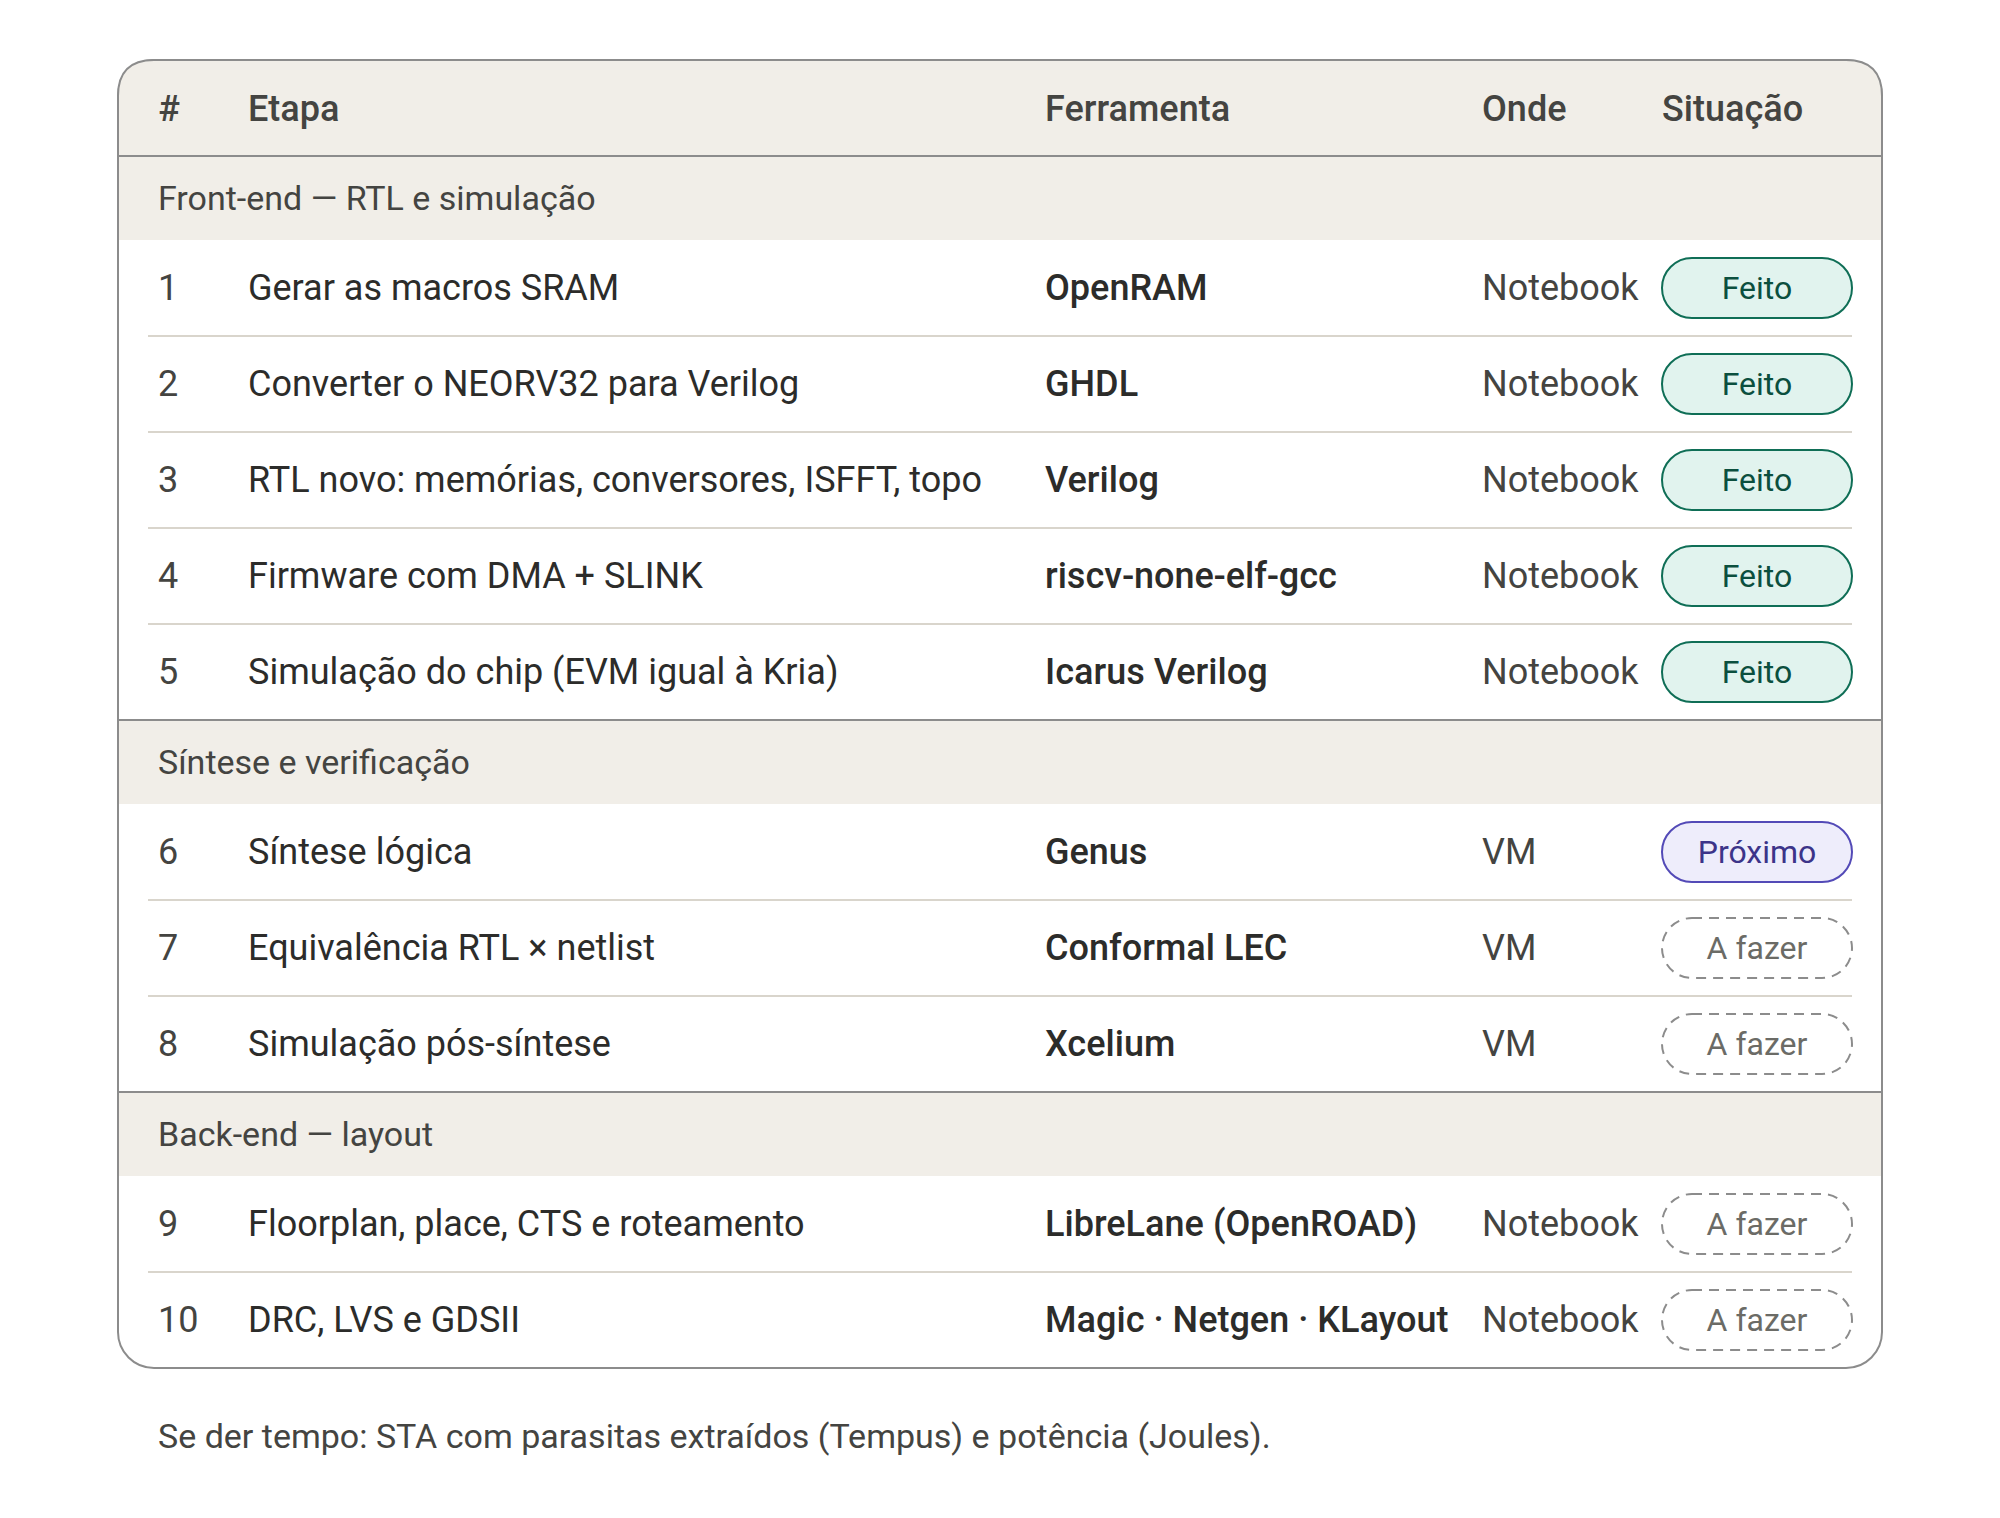
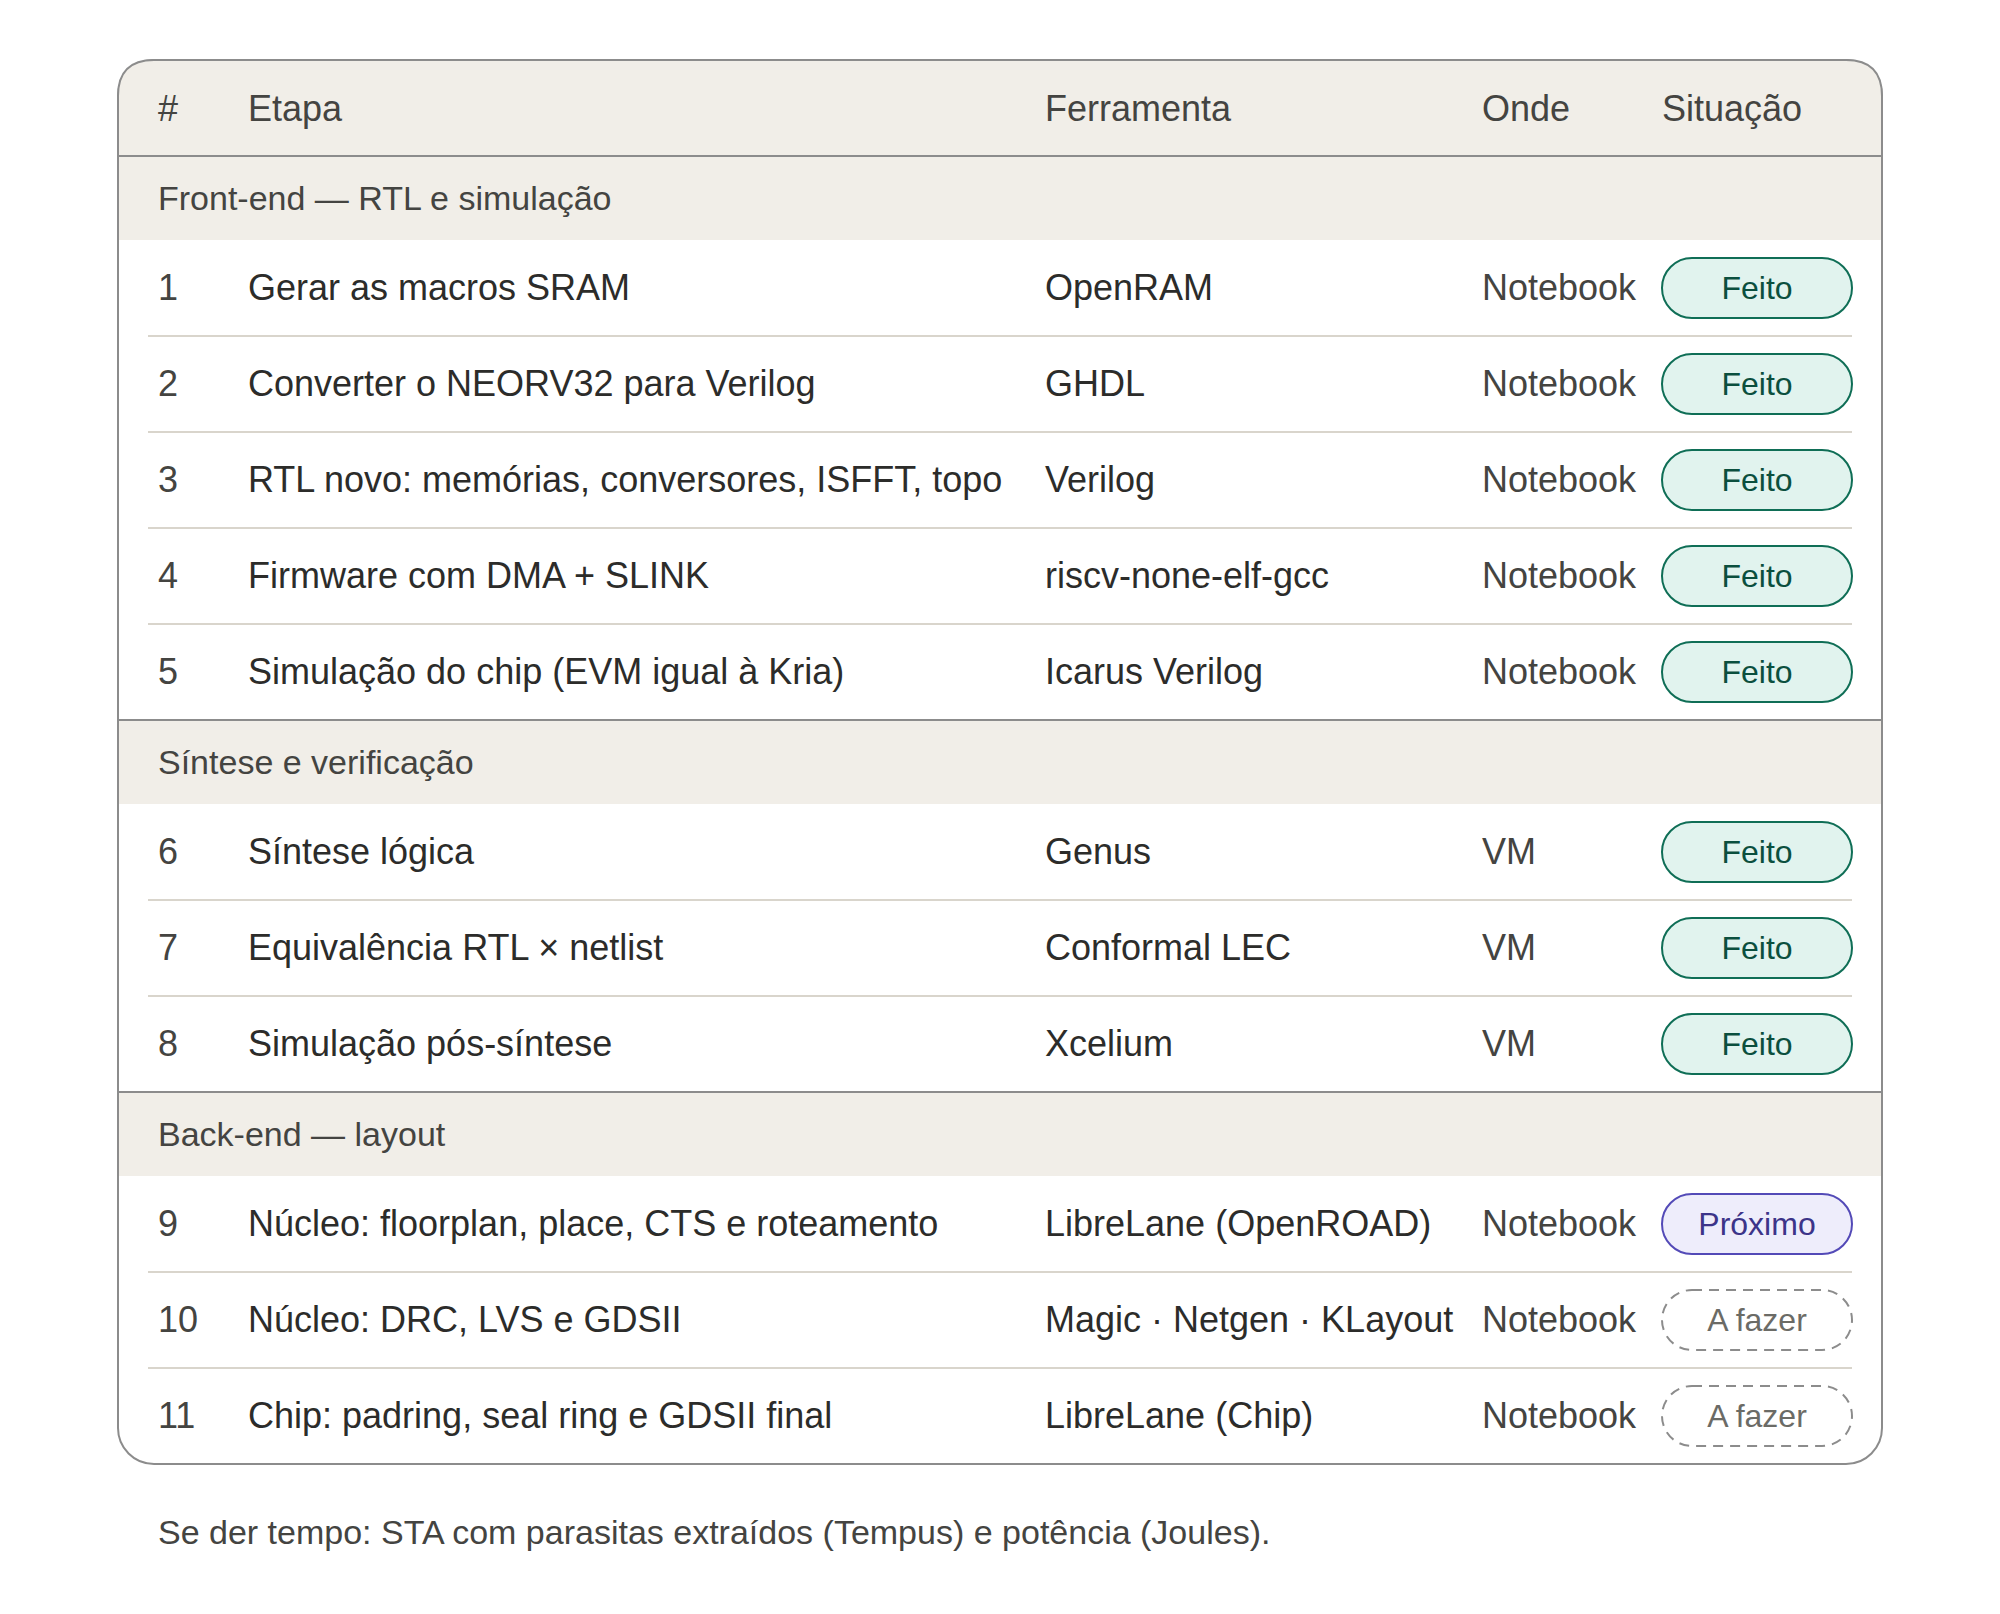
gdsii: roteiro até o GDSII + tabela para slide (L15)
Claude-Session: https://claude.ai/code/session_01KjHGGW1dwLoWYjJUyyCw1F

diff --git a/doc/gera_tabela_backend.py b/doc/gera_tabela_backend.py
@@ -1,0 +1,80 @@
+#!/usr/bin/env python3
+"""
+gera_tabela_backend.py -- etapas do back-end (netlist -> GDSII), com a
+imagem que cada etapa rende para o slide. Mesmo padrao da tabela_fluxo.
+Saida: doc/tabela_backend.svg  (PNG: python3 render_png.py tabela_backend.svg)
+Para atualizar a situacao, mude a ultima coluna de FASES e rode de novo.
+"""
+import os
+
+FASES = [
+    ("Preparação", [
+        ("0", "Netlist para o layout (.lib 33 bits, tie cells)", "Genus · LEC · Xcelium", "tabela antes × depois", "feito"),
+    ]),
+    ("Nível 1 — núcleo (fluxo Classic)", [
+        ("1", "Leitura do netlist e checagens", "LibreLane (Yosys)", "—", "proximo"),
+        ("2", "Floorplan: die, macros e pinos", "OpenROAD", "planta com as 4 macros", "afazer"),
+        ("3", "Rede de alimentação (PDN)", "OpenROAD", "malha met4/met5 + anéis", "afazer"),
+        ("4", "Posicionamento das células", "OpenROAD", "mapa de densidade", "afazer"),
+        ("5", "Árvore de clock (CTS)", "OpenROAD", "árvore de clock", "afazer"),
+        ("6", "Roteamento global e detalhado", "OpenROAD", "congestionamento + fios", "afazer"),
+        ("7", "Parasitas e timing pós-layout", "OpenRCX · OpenSTA", "slack: Genus × layout", "afazer"),
+        ("8", "DRC, LVS e antena do núcleo", "Magic · KLayout · Netgen", "tabela de checagens", "afazer"),
+        ("9", "Netlist final = netlist do Genus", "Conformal · Xcelium", "PASS / somas = RTL", "afazer"),
+    ]),
+    ("Nível 2 — chip (fluxo Chip)", [
+        ("10", "chip_top: pads e configuração", "Verilog · Icarus", "mapa dos pads", "afazer"),
+        ("11", "Padring, seal ring e preenchimento", "LibreLane (Chip)", "chip inteiro", "afazer"),
+        ("12", "DRC, LVS e densidade do chip: GDSII", "Magic · KLayout · Netgen", "imagem final do GDS", "afazer"),
+    ]),
+]
+NOTA = "Se der tempo: STA com SPEF no Tempus, potência no Joules e mapa de queda de tensão (IR drop)."
+
+FONT = "Roboto, Arial, sans-serif"
+C = dict(fundo="#FFFFFF", faixa="#F1EEE8", borda="#8C8C8C", linha="#D9D5CC",
+         txt="#2C2C2A", txt2="#444441", fase="#444441",
+         g_fill="#E1F3EE", g_stroke="#0F6E56", g_t="#0B4F3E",
+         p_fill="#EEEDFB", p_stroke="#534AB7", p_t="#3C3489",
+         n_fill="#FFFFFF", n_stroke="#8C8C8C", n_t="#6B6B66")
+SIT = {"feito": ("Feito", "g", False), "proximo": ("Próximo", "p", False), "afazer": ("A fazer", "n", True)}
+
+W = 2600
+X0, X1 = 118, W - 118
+COL = [X0 + 40, X0 + 130, 1130, 1620, X1 - 230]   # #, etapa, ferramenta, imagem, situacao
+RH, FH, HH = 92, 80, 96
+n_linhas = sum(len(f[1]) for f in FASES)
+H = 60 + HH + len(FASES) * FH + n_linhas * RH + 150
+
+o = []
+e = o.append
+e(f'<svg xmlns="http://www.w3.org/2000/svg" width="{W}" height="{H}" viewBox="0 0 {W} {H}" font-family="{FONT}">')
+e(f'<rect width="{W}" height="{H}" fill="{C["fundo"]}"/>')
+top = 60
+alt = HH + len(FASES) * FH + n_linhas * RH
+e(f'<rect x="{X0}" y="{top}" width="{X1-X0}" height="{alt}" rx="36" fill="{C["fundo"]}" stroke="{C["borda"]}" stroke-width="2"/>')
+e(f'<path d="M {X0} {top+HH} L {X0} {top+36} Q {X0} {top} {X0+36} {top} L {X1-36} {top} Q {X1} {top} {X1} {top+36} L {X1} {top+HH} Z" fill="{C["faixa"]}" stroke="{C["borda"]}" stroke-width="2"/>')
+for x, t in zip(COL, ["#", "Etapa", "Ferramenta", "Imagem para o slide", "Situação"]):
+    e(f'<text x="{x}" y="{top+HH/2+13}" font-size="36" font-weight="500" fill="{C["txt2"]}">{t}</text>')
+y = top + HH
+for fase, linhas in FASES:
+    e(f'<rect x="{X0+1}" y="{y}" width="{X1-X0-2}" height="{FH}" fill="{C["faixa"]}"/>')
+    e(f'<line x1="{X0}" y1="{y}" x2="{X1}" y2="{y}" stroke="{C["borda"]}" stroke-width="2"/>')
+    e(f'<text x="{COL[0]}" y="{y+FH/2+12}" font-size="34" fill="{C["fase"]}">{fase}</text>')
+    y += FH
+    for i, (n, etapa, ferr, img, sit) in enumerate(linhas):
+        if i:
+            e(f'<line x1="{X0+30}" y1="{y}" x2="{X1-30}" y2="{y}" stroke="{C["linha"]}" stroke-width="2"/>')
+        cy = y + RH/2 + 12
+        e(f'<text x="{COL[0]}" y="{cy}" font-size="34" fill="{C["txt2"]}">{n}</text>')
+        e(f'<text x="{COL[1]}" y="{cy}" font-size="34" fill="{C["txt"]}">{etapa}</text>')
+        e(f'<text x="{COL[2]}" y="{cy}" font-size="34" font-weight="500" fill="{C["txt"]}">{ferr}</text>')
+        e(f'<text x="{COL[3]}" y="{cy}" font-size="32" fill="{C["txt2"]}">{img}</text>')
+        rot, tipo, tr = SIT[sit]
+        dash = ' stroke-dasharray="10 7"' if tr else ""
+        e(f'<rect x="{COL[4]}" y="{y+17}" width="190" height="{RH-34}" rx="29" fill="{C[tipo+"_fill"]}" stroke="{C[tipo+"_stroke"]}" stroke-width="2"{dash}/>')
+        e(f'<text x="{COL[4]+95}" y="{y+RH/2+11}" font-size="31" fill="{C[tipo+"_t"]}" text-anchor="middle">{rot}</text>')
+        y += RH
+e(f'<text x="{X0+40}" y="{y+80}" font-size="34" fill="{C["txt2"]}">{NOTA}</text>')
+e('</svg>')
+open(os.path.join(os.path.dirname(os.path.abspath(__file__)), "tabela_backend.svg"), "w").write("\n".join(o))
+print("tabela_backend.svg")

diff --git a/doc/gera_tabela_fluxo.py b/doc/gera_tabela_fluxo.py
@@ -15,13 +15,14 @@ FASES = [
         ("5", "Simulação do chip (EVM igual à Kria)", "Icarus Verilog", "Notebook", "feito"),
     ]),
     ("Síntese e verificação", [
-        ("6", "Síntese lógica", "Genus", "VM", "proximo"),
-        ("7", "Equivalência RTL × netlist", "Conformal LEC", "VM", "afazer"),
-        ("8", "Simulação pós-síntese", "Xcelium", "VM", "afazer"),
+        ("6", "Síntese lógica", "Genus", "VM", "feito"),
+        ("7", "Equivalência RTL × netlist", "Conformal LEC", "VM", "feito"),
+        ("8", "Simulação pós-síntese", "Xcelium", "VM", "feito"),
     ]),
     ("Back-end — layout", [
-        ("9", "Floorplan, place, CTS e roteamento", "LibreLane (OpenROAD)", "Notebook", "afazer"),
-        ("10", "DRC, LVS e GDSII", "Magic · Netgen · KLayout", "Notebook", "afazer"),
+        ("9", "Núcleo: floorplan, place, CTS e roteamento", "LibreLane (OpenROAD)", "Notebook", "proximo"),
+        ("10", "Núcleo: DRC, LVS e GDSII", "Magic · Netgen · KLayout", "Notebook", "afazer"),
+        ("11", "Chip: padring, seal ring e GDSII final", "LibreLane (Chip)", "Notebook", "afazer"),
     ]),
 ]
 NOTA = "Se der tempo: STA com parasitas extraídos (Tempus) e potência (Joules)."

diff --git a/DIARIO_GDSII.md b/DIARIO_GDSII.md
@@ -687,8 +687,48 @@ núcleo, mesmo `tb_gate` (a UART tem que passar pelo pad).
 | # | Decisão | Status | Motivo |
 |---|---|---|---|
 | L6 | ~~Sem padring~~ → **chip completo, com padring** | ✅ | Decisão do Lukas |
-| L15 | Dois níveis: núcleo (`Classic`) → chip com padring (`Chip`) | 🟡 | Núcleo sai primeiro; padring (caminho incerto no sky130) não trava o resto |
+| L15 | Dois níveis: núcleo (`Classic`) → chip com padring (`Chip`) | ✅ | Núcleo sai primeiro; padring (caminho incerto no sky130) não trava o resto |
 | L16 | Padring com `sky130_ef_io` declarado no nosso config (`PAD_*`, `PAD_FAKE_SITES`) | 🟡 | O PDK do LibreLane não traz a configuração para o sky130 |
+
+---
+
+## 2026-09-27 (7ª sessão) — Roteiro até o GDSII final
+
+**L15 confirmada pelo Lukas** (dois níveis). Antes de começar, o roteiro
+com ferramenta, critério de "passou" e a imagem que cada etapa rende.
+Versão de slide: `doc/tabela_backend.png` (`doc/gera_tabela_backend.py`;
+para atualizar a situação, mude a última coluna e rode de novo). A tabela
+geral (`doc/tabela_fluxo.png`) foi atualizada: 6–8 feitas, back-end em 3
+linhas (núcleo, DRC/LVS do núcleo, chip).
+
+| # | Etapa | Ferramenta | Passou quando | Imagem |
+|---|---|---|---|---|
+| 0 | Netlist para o layout | Genus · Conformal · Xcelium | ✅ 5ª sessão | tabela antes × depois |
+| **Nível 1** | **núcleo `asic_top`, fluxo `Classic`** | | | |
+| 1 | Leitura do netlist (`SYNTH_ELABORATE_ONLY`) | Yosys (no LibreLane) | 4 macros, 0 módulos não resolvidos, 0 constantes soltas | — |
+| 2 | Floorplan: die, macros (posição + orientação + halo), pinos | OpenROAD | macros sem sobreposição, pinos das macros virados para a lógica | planta com as 4 macros |
+| 3 | PDN (met4/met5 + ligação nos anéis das macros) | OpenROAD `pdngen` | nenhuma célula ou macro sem alimentação | malha de alimentação |
+| 4 | Posicionamento global + detalhado, correção de fanout/transição | OpenROAD (RePlAce, OpenDP, `repair_design`) | 0 células fora de linha; densidade < ~60% | mapa de densidade |
+| 5 | Árvore de clock (~19.800 flip-flops) | OpenROAD (TritonCTS) | skew baixo; slack ainda positivo | árvore de clock |
+| 6 | Roteamento global e detalhado | OpenROAD (FastRoute, TritonRoute) | 0 violações de roteamento (DRV) | congestionamento + fios |
+| 7 | Extração de parasitas + STA | OpenRCX · OpenSTA | slack ≥ 0 a 50 MHz (Genus: +2,4 ns) | slack Genus × layout |
+| 8 | DRC, LVS, antena (macros como caixa-preta, L3) | Magic · KLayout · Netgen | DRC 0 e LVS limpo na lógica | tabela de checagens |
+| 9 | Netlist do layout ≡ netlist do Genus; simulação do netlist final | Conformal · Xcelium (VM) | LEC PASS; somas = RTL | PASS |
+| **Nível 2** | **chip `chip_top`, fluxo `Chip`** | | | |
+| 10 | `chip_top.v`: pads `sky130_ef_io` + configuração + núcleo | Verilog · Icarus | UART sai pelo pad; `tb_gate` PASSOU | mapa dos pads |
+| 11 | Padring, núcleo como macro, seal ring, preenchimento | LibreLane `Chip` (OpenROAD, KLayout) | anel fechado; núcleo alimentado pelos pads | chip inteiro |
+| 12 | DRC, LVS, densidade → GDSII | Magic · KLayout · Netgen | DRC/LVS limpos fora das células da foundry; densidade ok | imagem final do GDS |
+
+Se der tempo (FE-D23): STA com SPEF no Tempus, potência no Joules com
+atividade da simulação, mapa de queda de tensão (IR drop).
+
+**Imagens:** o LibreLane grava uma rodada por etapa em
+`layout/runs/<RUN>/NN-<etapa>/`, com o `.odb` e o `.def` daquele momento.
+Qualquer etapa abre no OpenROAD com GUI (`openroad -gui`) ou no KLayout,
+e o fluxo já renderiza o GDS final em PNG (`KLayout.Render`). Plano: um
+script em `layout/` que gera as imagens das etapas 2–6 automaticamente
+(OpenROAD `save_image` em modo sem tela), para os slides saírem iguais a
+cada rodada.
 
 ---
 
@@ -710,7 +750,7 @@ núcleo, mesmo `tb_gate` (a UART tem que passar pelo pad).
 | L12 | `CLAUDE.md` com regras de trabalho e git | ✅ | 2026-09-27 |
 | L13 | Resultados da VM pelo git (`sim/traz_vm.sh`) | ✅ | 2026-09-27 |
 | L14 | Netlist do layout = rodada de 27/09 | ✅ | 2026-09-27 |
-| L15 | Dois níveis: núcleo → chip com padring | 🟡 | 2026-09-27 |
+| L15 | Dois níveis: núcleo → chip com padring | ✅ | 2026-09-27 |
 | L16 | Padring `sky130_ef_io` no nosso config | 🟡 | 2026-09-27 |
 
 ---
